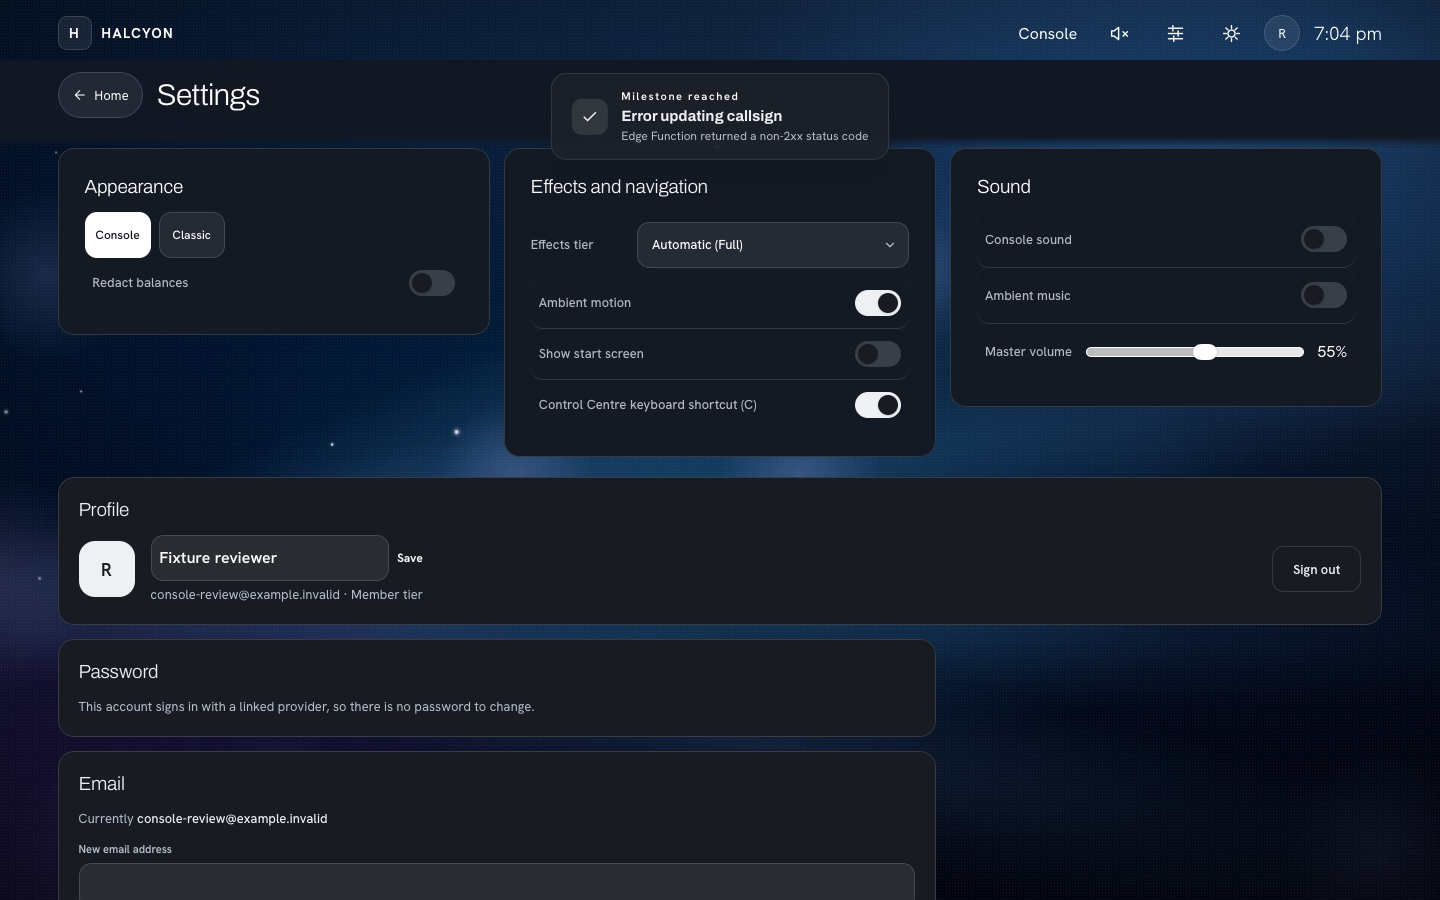
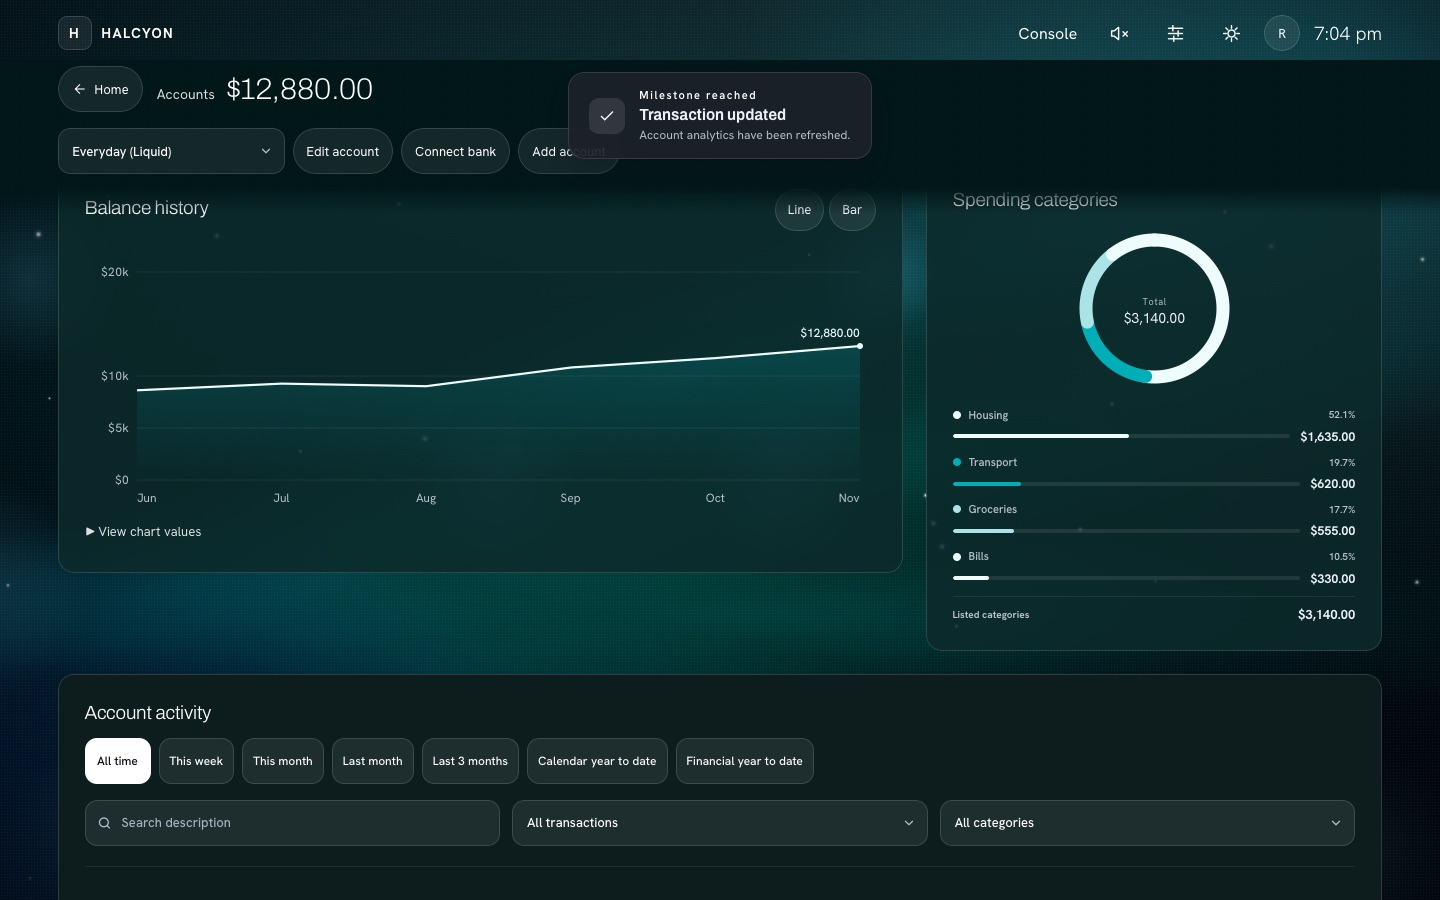
Capture the Console milestone toast after a successful correction

diff --git a/app/e2e/console-owner-fixes.spec.ts b/app/e2e/console-owner-fixes.spec.ts
@@ -474,8 +474,14 @@ test('Investment orb compares history and pads the fallback value inside the rin
 })
 
 test('Rendered nested Console views, toasts and empty states use Australian sentence case', async ({ page }) => {
-  await openConsole(page, resource => resource === 'update-callsign'
-    ? { status: 422, json: { message: 'The fixture rejected this change.' } } : investmentReply(resource))
+  let category = 'Groceries'
+  await openConsole(page, (resource, request) => {
+    if (resource === 'update-transaction-category') {
+      category = request.postDataJSON().category
+      return { json: { category, subcategory: null, edit_id: 'fixture-edit' } }
+    }
+    return investmentReply(resource)
+  })
   const signedPositive = await page.locator('.console-activity-card [data-sign="positive"]').first()
     .evaluate(node => getComputedStyle(node).color)
   const hub = page.locator('.console-designed-scroll')
@@ -530,12 +536,13 @@ test('Rendered nested Console views, toasts and empty states use Australian sent
   })
   expect((await collectConsoleChrome(detail)).issues.casing).toContain('AUTHORED CAPS')
 
-  await page.goto(new URL('/settings', dashboard).href)
-  await page.getByRole('button', { name: 'Edit callsign' }).click()
-  const callsign = page.getByRole('textbox', { name: 'Callsign' })
-  await callsign.fill('Fixture reviewer')
-  await callsign.press('Enter')
+  await detail.getByRole('combobox', { name: 'Transaction category' }).selectOption('Transport')
+  await detail.getByRole('button', { name: 'Save correction' }).click()
   const toast = page.locator('[data-console-toast]')
+  await expect(toast.getByText('Transaction updated', { exact: true })).toBeVisible()
+  expect(category).toBe('Transport')
+  await detail.getByRole('button', { name: 'Close transaction detail' }).click()
+  await expect(detail).toHaveCount(0)
   await expect(toast.getByText('Milestone reached', { exact: true })).toHaveCSS('text-transform', 'none')
   await expect(toast).toHaveCSS('opacity', '1')
   await capture(page, '10-toast-case')
